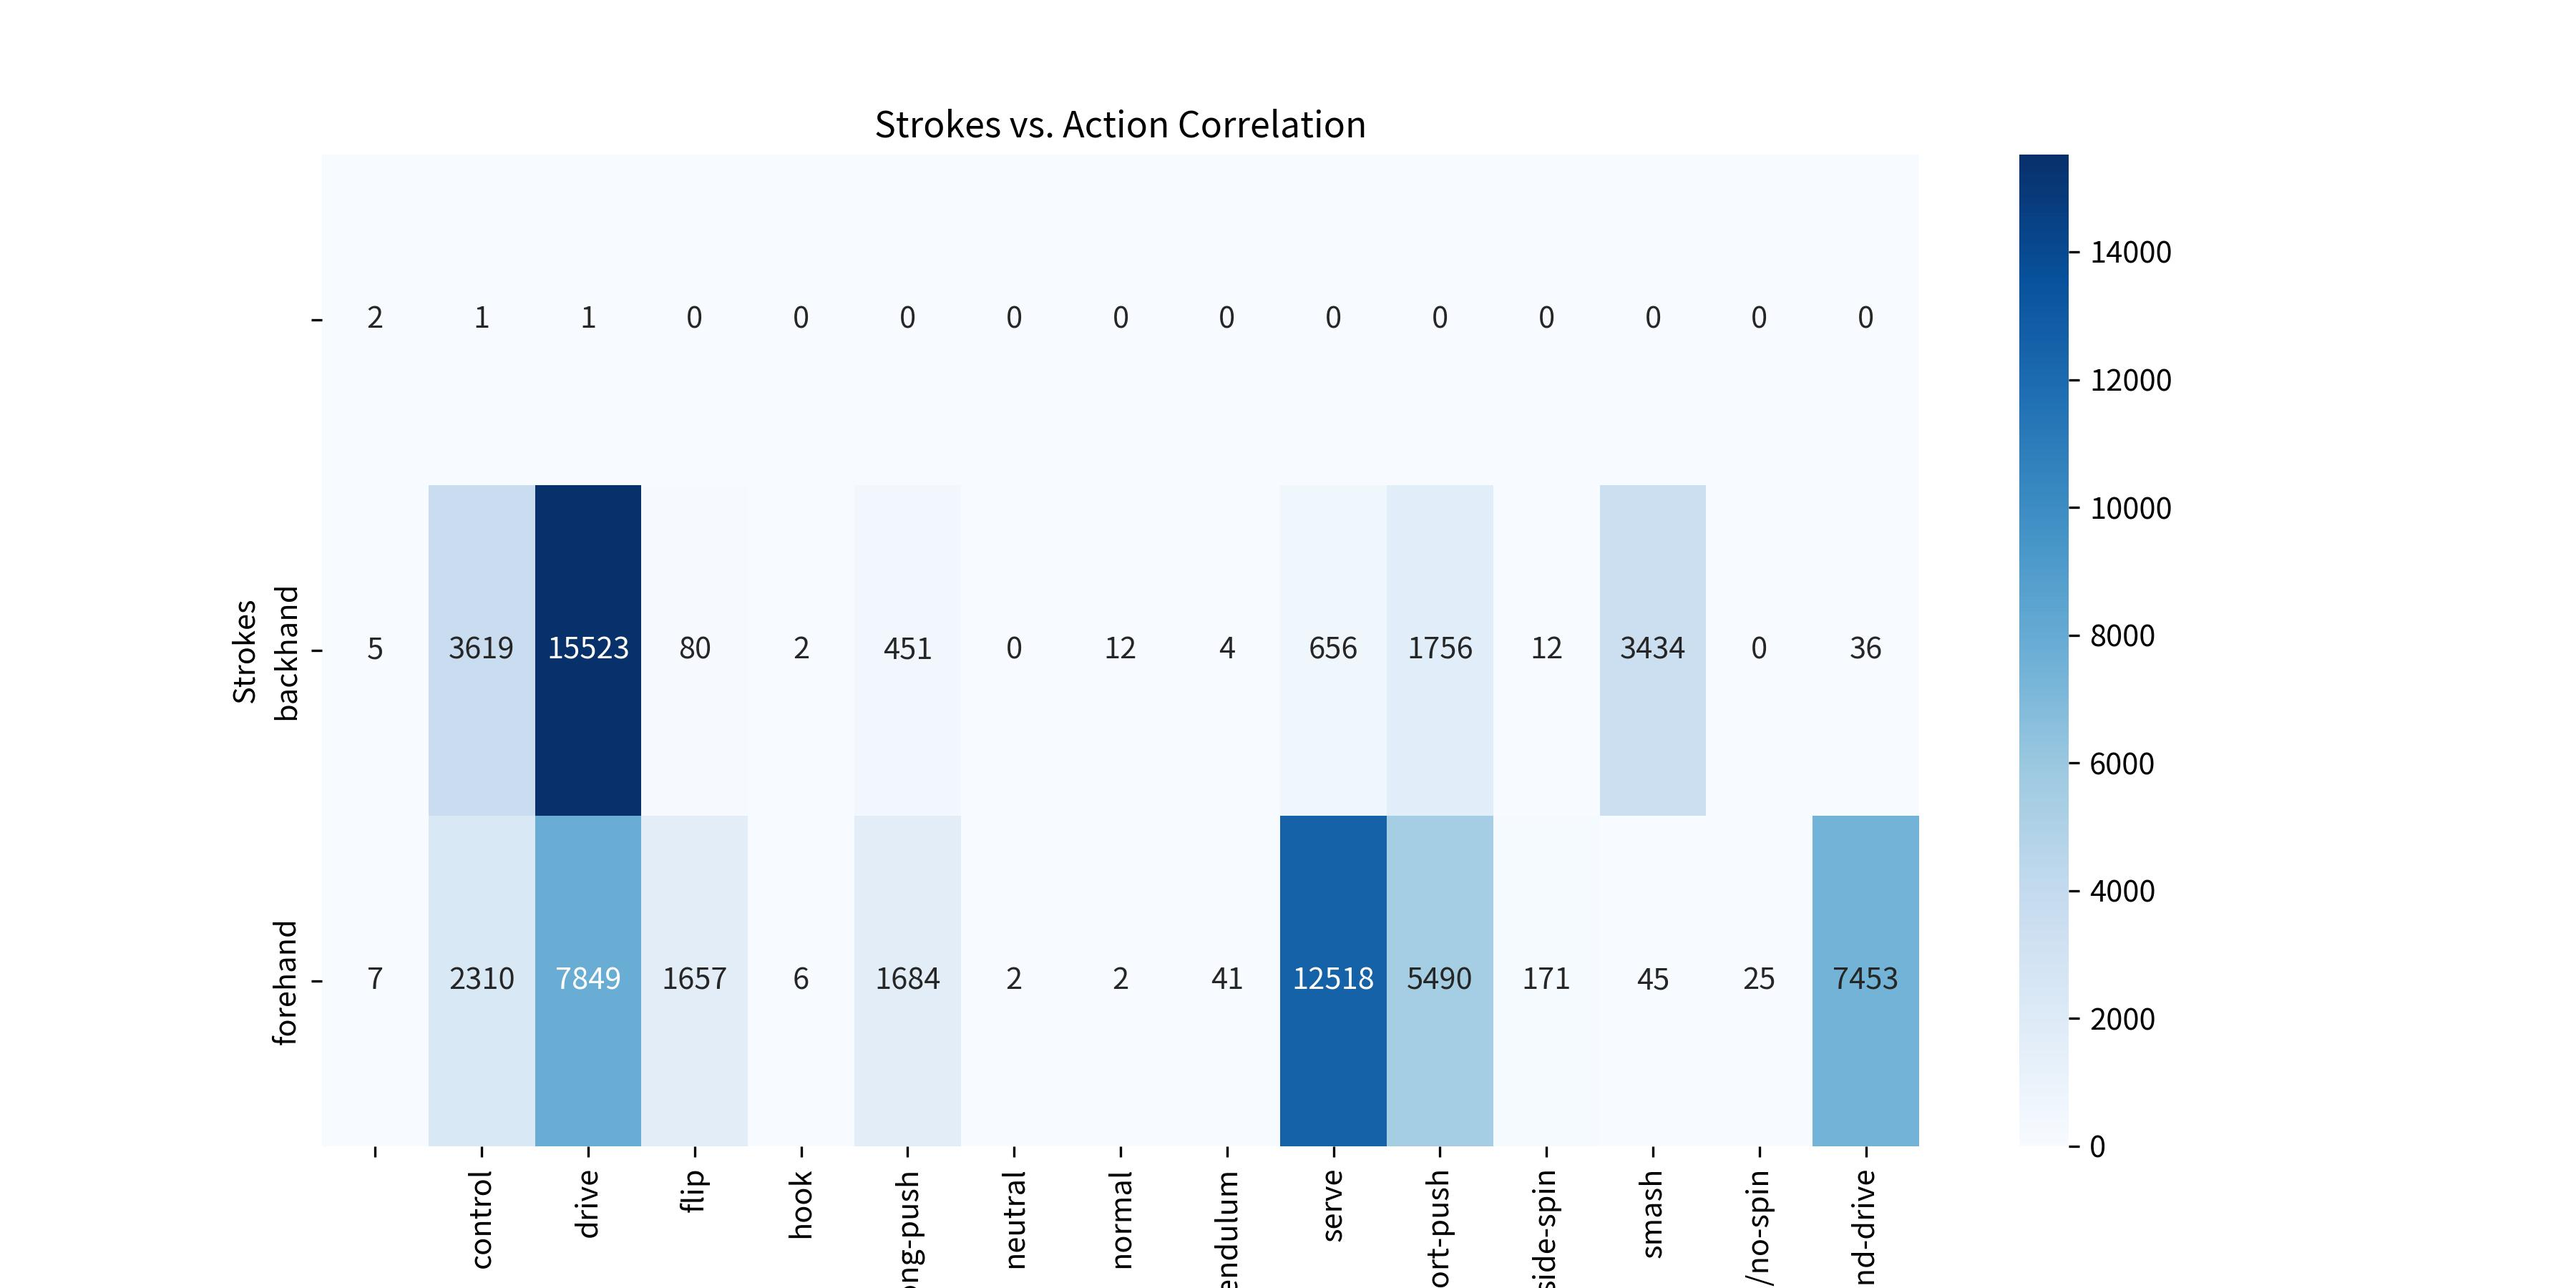
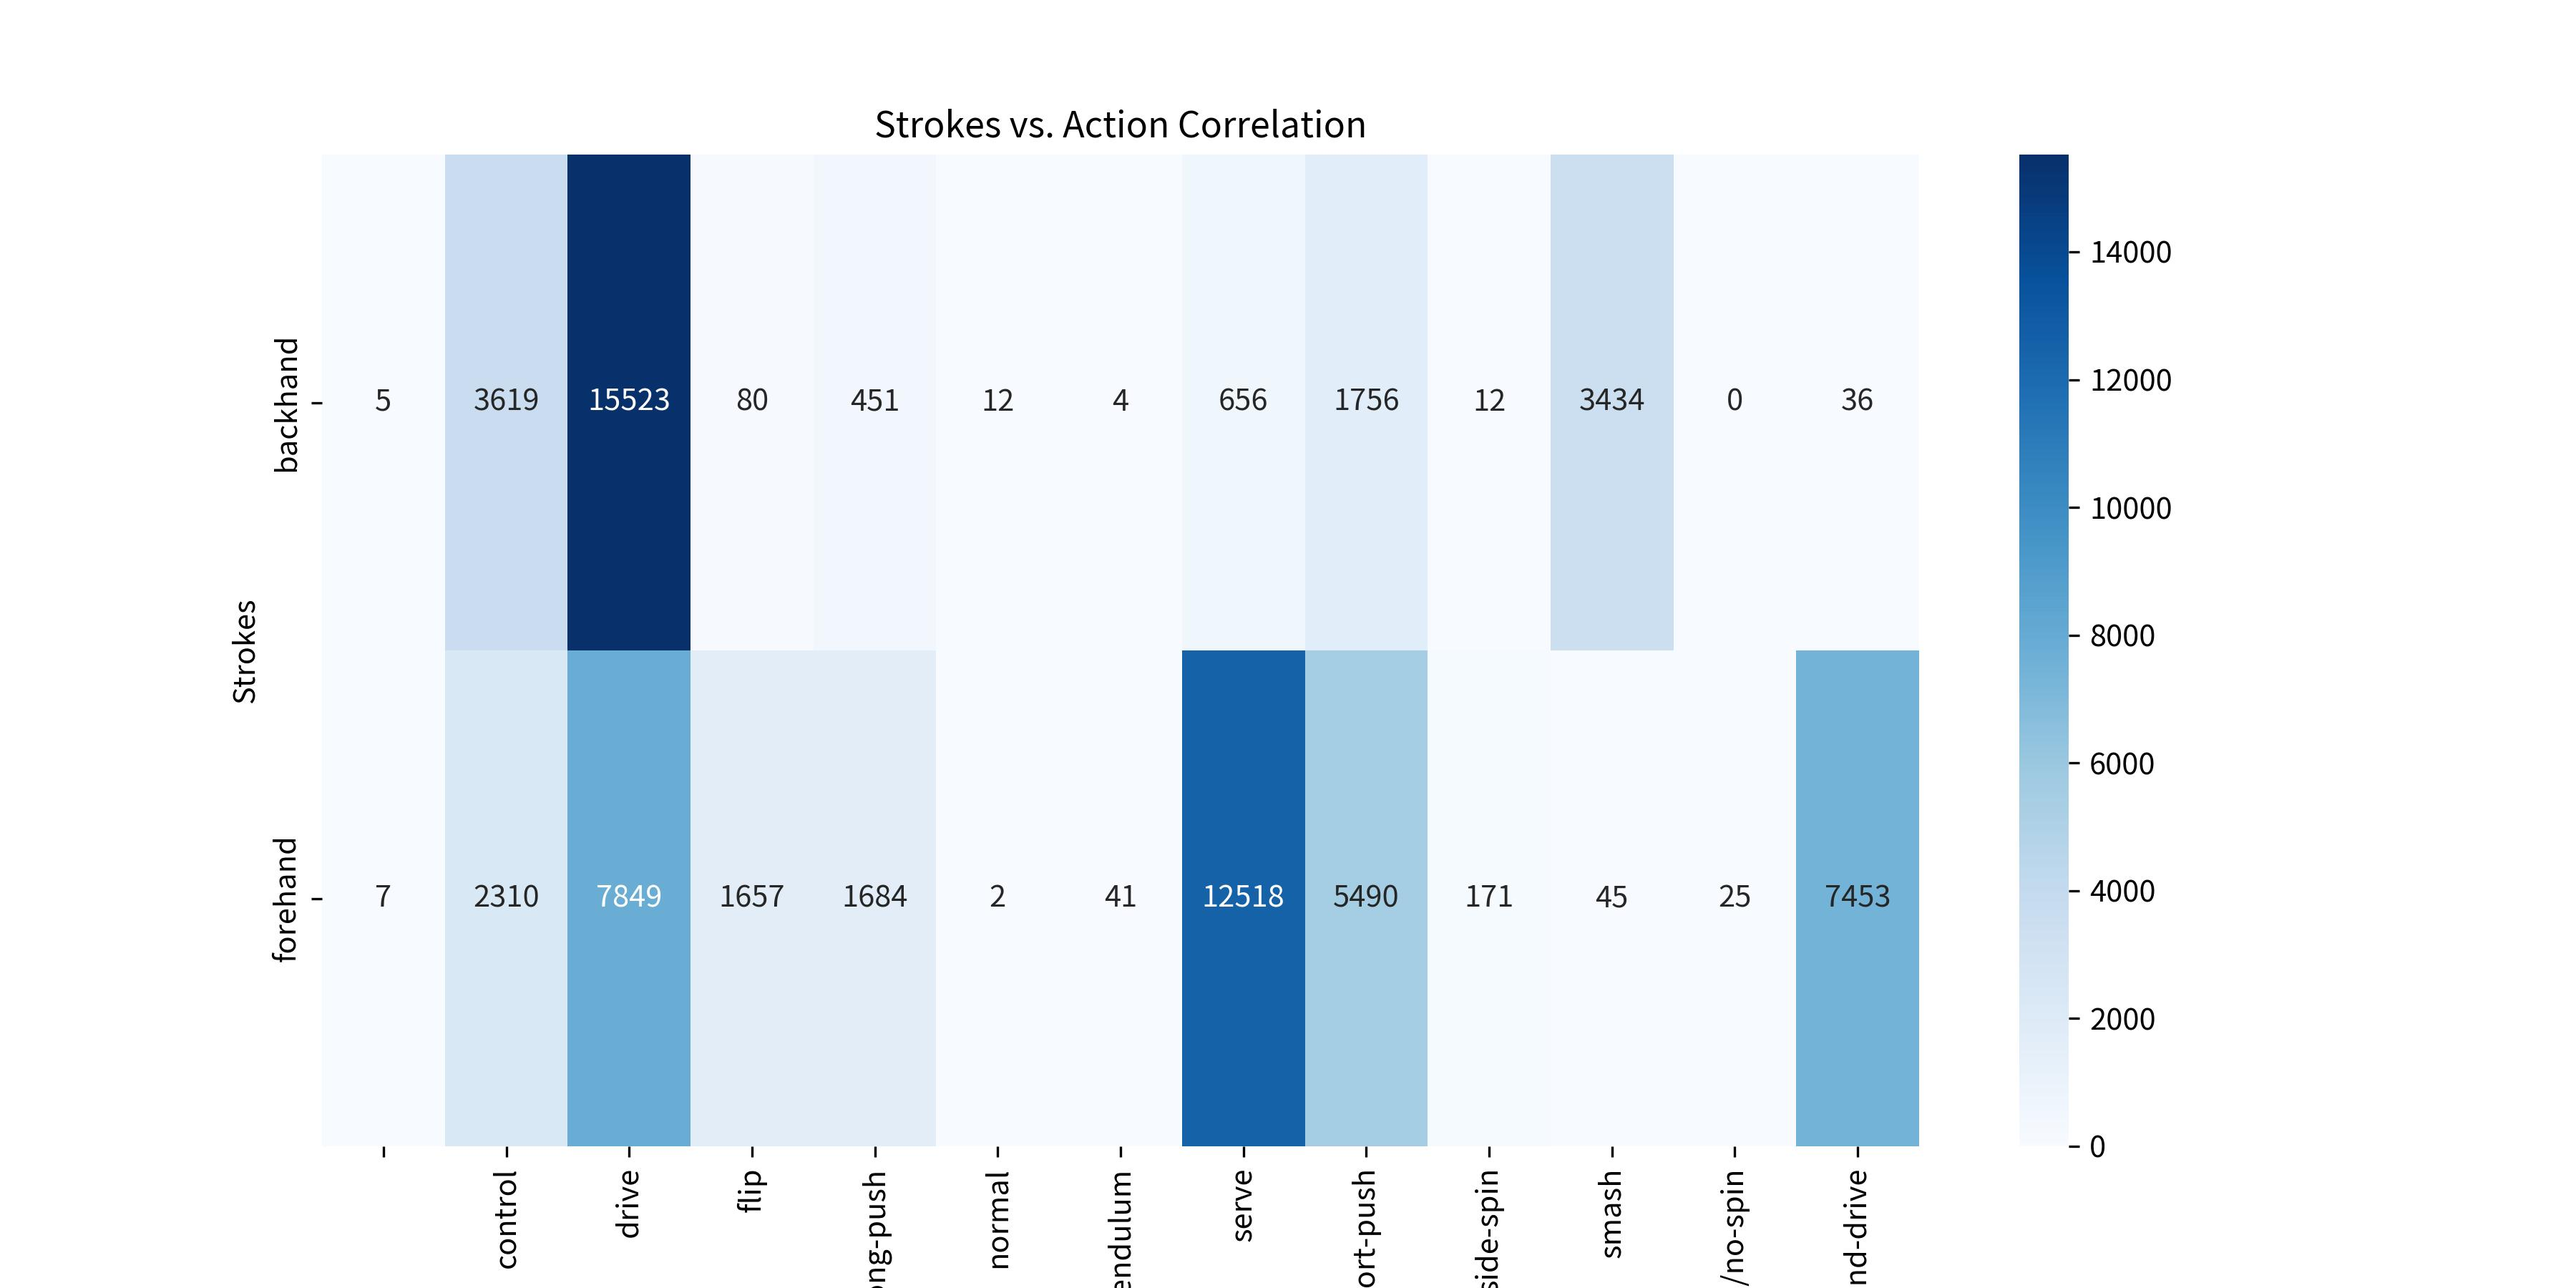
update data analysis

diff --git a/analyze.py b/analyze.py
@@ -4,6 +4,7 @@ import matplotlib.pyplot as plt
 import seaborn as sns
 import os
 import csv
+from sklearn.cluster import KMeans
 
 plt.rcParams['font.family'] = 'Noto Sans CJK JP'
 
@@ -22,7 +23,6 @@ def load_data(json_paths):
 def save_plot(fig, output_path):
     fig.tight_layout()
     fig.savefig(output_path, format="jpg", dpi=300)
-    print(f"Plot saved as {output_path}")
     plt.close(fig)
 
 def plot_heatmap(data, title, output_path, cmap="Blues"):
@@ -30,7 +30,6 @@ def plot_heatmap(data, title, output_path, cmap="Blues"):
     sns.heatmap(data, annot=True, fmt="d", cmap=cmap)
     plt.title(title)
     plt.savefig(output_path, format="jpg", dpi=300)
-    print(f"{title} plot saved as {output_path}")
     plt.close()
 
 """
@@ -76,13 +75,22 @@ def plot_action_distribution(df, output_dir):
         # "Negation": df["Negation"].value_counts(),
         "Action": df["Action"].value_counts()
     }
-    fig, axes = plt.subplots(1, 3, figsize=(18, 5))
+    fig, axes = plt.subplots(1, 2, figsize=(18, 5))
     for ax, (label, count) in zip(axes, counts.items()):
         count.plot(kind='bar', ax=ax, title=f"{label} Distribution")
     save_plot(fig, os.path.join(output_dir, "plot_action_distribution.jpg"))
 
 def plot_type_action_correlation(df, output_dir):
+    df["Strokes"] = df["Strokes"].str.strip()
+    df["Action"] = df["Action"].str.strip()
+    
+    df = df.dropna(subset=["Strokes", "Action"])
+
     type_action_correlation = pd.crosstab(df["Strokes"], df["Action"])
+    
+    type_action_correlation = type_action_correlation.loc[(type_action_correlation.sum(axis=1) > 10), 
+                                                          (type_action_correlation.sum(axis=0) > 10)]
+    
     plot_heatmap(type_action_correlation, "Strokes vs. Action Correlation", os.path.join(output_dir, "plot_strokes_action_correlation.jpg"))
 
 def plot_labels_per_event(data, output_dir):
@@ -104,6 +112,31 @@ def count_labels(df, output_dir):
     output_path = os.path.join(output_dir, "csv_labels_count.csv")
     labels_count.to_csv(output_path)
 
+def plot_stroke_transition_matrix(df, output_dir):
+    stroke_categories = ["backhand", "forehand"]
+    
+    df["Strokes"].replace(["", None], pd.NA, inplace=True)
+    df["Next_Stroke"] = df["Strokes"].shift(-1)
+    df["Next_Stroke"].replace(["", None], pd.NA, inplace=True)
+    
+    df.dropna(subset=["Strokes", "Next_Stroke"], inplace=True)
+    
+    df["Strokes"] = pd.Categorical(df["Strokes"], categories=stroke_categories)
+    df["Next_Stroke"] = pd.Categorical(df["Next_Stroke"], categories=stroke_categories)
+    
+    transition_matrix = pd.crosstab(df["Strokes"], df["Next_Stroke"]).astype(float)
+    
+    transition_matrix = transition_matrix.div(transition_matrix.sum(axis=1), axis=0).fillna(0).round(2)
+    
+    fig, ax = plt.subplots(figsize=(10, 8))
+    sns.heatmap(transition_matrix, annot=True, cmap="Blues", ax=ax, vmin=0, vmax=1)
+    ax.set_title("Stroke Transition Matrix")
+    ax.set_xlabel("Next_Stroke")
+    ax.set_ylabel("Strokes")
+    
+    output_path = os.path.join(output_dir, "stroke_transition_matrix.jpg")
+    save_plot(fig, output_path)
+
 def main():
     version_name= "2_simplified_labels"
     output_dir = f"analysis/{version_name}"
@@ -120,6 +153,7 @@ def main():
     plot_type_action_correlation(df, output_dir)
     count_labels(df, output_dir)
     plot_labels_per_event(data, output_dir)
+    plot_stroke_transition_matrix(df, output_dir)
 
 if __name__ == "__main__":
     main()
